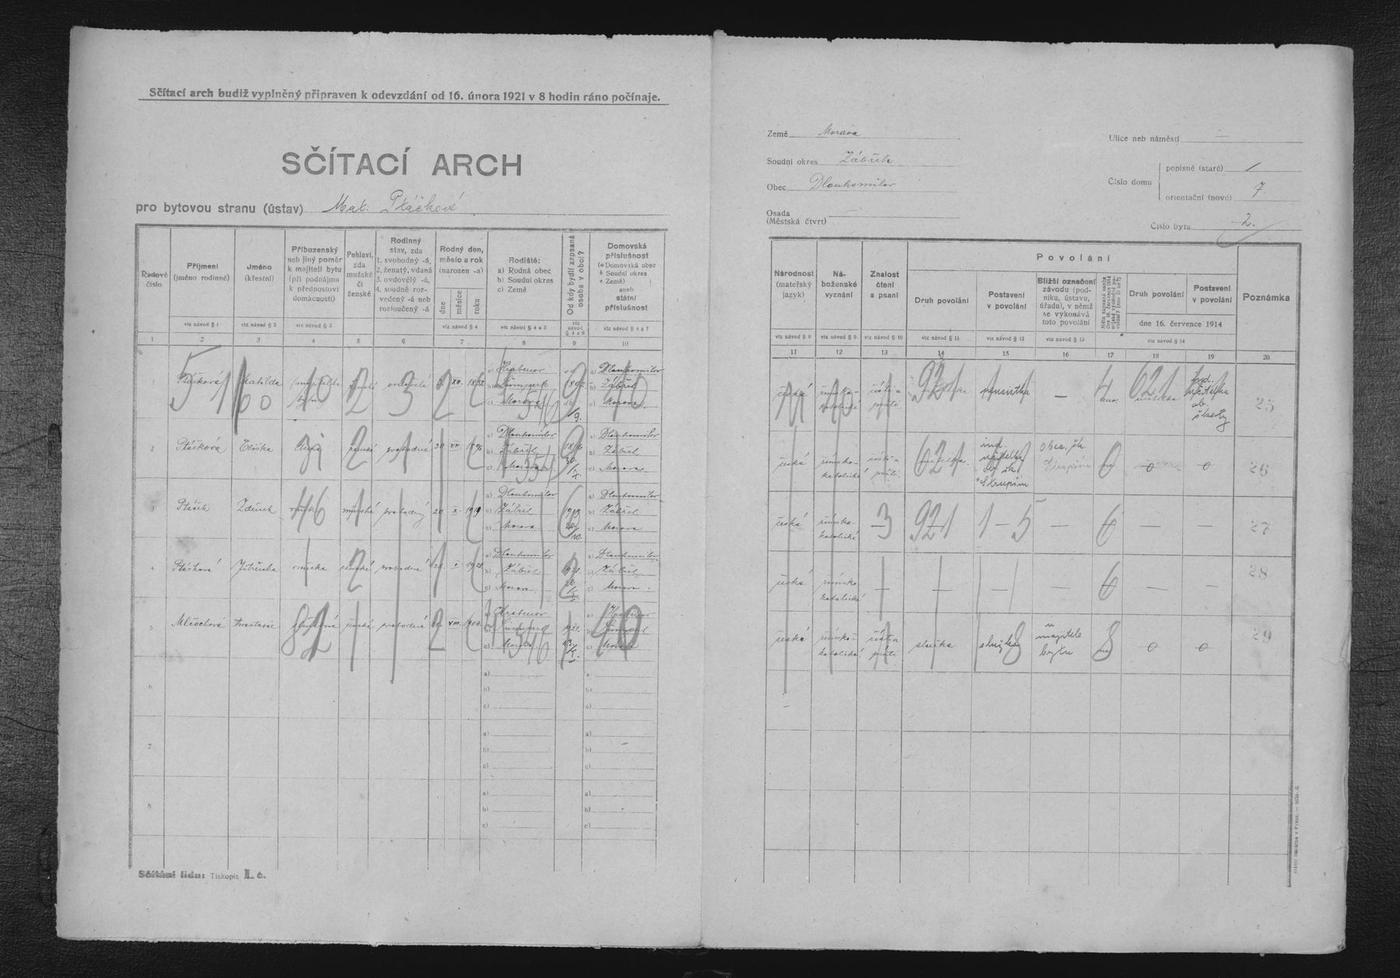
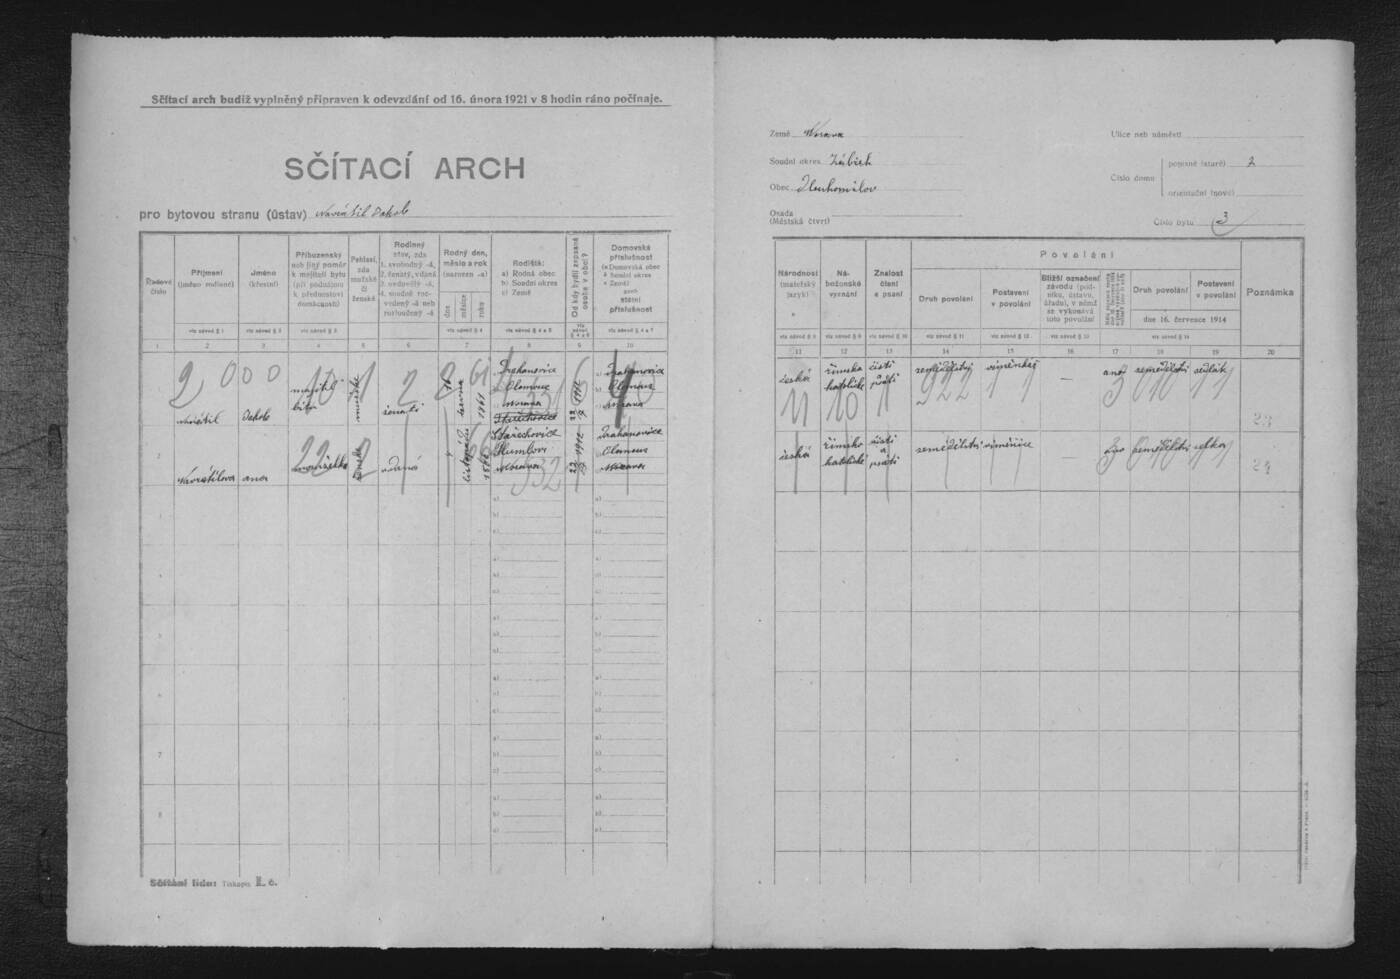
fix(cp7): overeni a oprava obyvatel bytu c. 3 rychty cp. 7 ze skenu 1921 (Jakub a Anna Navratilovi)

diff --git a/data/houses.js b/data/houses.js
@@ -936,7 +936,7 @@ const housesData = [
         "date": "15. února 1921",
         "isSample": false,
         "archiveSource": "Zemský archiv v Opavě, fond Okresní úřad Zábřeh, Sčítání lidu 1921, fascikl 3, arch čp. 7 (snímky 0036, 0038, 0040, 0042)",
-        "note": "Originální sčítací operát ČSR 1921 (ověřeno z primárních skenů e538 a 812b). Dům byl rozdělen na 3 byty (14 obyvatel): Byt č. 1 (rodina nového majitele Františka Hvížďa a čeleď, 7 osob – běžné pořadové č. 30–36), Byt č. 2 (výměnek – Mathilda Ptáčková roz. Všetečková, dcera industriální učitelka Eliška, vnoučata Zdeněk a Jitřenka, služebná Anastasie Mlčochová, 5 osob – běžné pořadové č. 25–29) a Byt č. 3 (výměnkář Jakub Navrátil s chotí z Drahanovic, 2 osoby).",
+        "note": "Originální sčítací operát ČSR 1921 (ověřeno z primárních skenů e538, 812b a 67da). Dům byl rozdělen na 3 byty (14 obyvatel): Byt č. 3 (výměnkář Jakub Navrátil s chotí Annou z Drahanovic, 2 osoby – běžné pořadové č. 23–24), Byt č. 2 (výměnek – Mathilda Ptáčková roz. Všetečková, dcera Eliška, vnoučata Zdeněk a Jitřenka, služka Anastasie Mlčochová, 5 osob – běžné pořadové č. 25–29) a Byt č. 1 (rodina nového majitele Františka Hvížďa a čeleď, 7 osob – běžné pořadové č. 30–36).",
         "scanFile": "assets/archives/cp7/su1000_c_pom_411_inv_c_1863_fascikl_3_null_dlouhomilov_serie_cp_1_118_1921_0036.jpg",
         "scanTitle": "Sčítací operát 1921 – Bývalá dědičná rychta čp. 7",
         "inhabitants": [
@@ -1063,21 +1063,21 @@ const housesData = [
           {
             "name": "Jakub Navrátil",
             "relation": "Majitel bytu č. 3 (výměnkář)",
-            "birthDate": "2. 8. 1861",
+            "birthDate": "16. 6. 1861",
             "birthPlace": "Drahanovice",
             "religion": "římskokatolické",
             "nationality": "československá",
-            "occupation": "Výměnkář / dříve samostatný rolník",
+            "occupation": "Výměnkář / dříve samostatný sedlák (v obci od 22. 7. 1912)",
             "literacy": "čte i píše"
           },
           {
             "name": "Anna Navrátilová",
             "relation": "Manželka v bytě č. 3",
-            "birthDate": "listopad 1860",
+            "birthDate": "4. 11. 1860",
             "birthPlace": "Stařechovice",
             "religion": "římskokatolické",
             "nationality": "československá",
-            "occupation": "Výměnkářka v domácnosti",
+            "occupation": "Výměnkářka / dříve selka (v obci od 22. 7. 1912)",
             "literacy": "čte i píše"
           }
         ],

diff --git a/data/census_registry.js b/data/census_registry.js
@@ -279,12 +279,12 @@ const censusRegistryData = [
     "categoryLabel": "Výměnkář / Výměnkářka",
     "categoryIcon": "👴",
     "categoryBadgeClass": "bg-stone-100 text-stone-900 border-stone-300",
-    "birthDate": "2. 8. 1861",
+    "birthDate": "16. 6. 1861",
     "relation": "Majitel bytu č. 3 (výměnkář)",
     "birthPlace": "Drahanovice",
     "religion": "římskokatolické",
     "language": "československá",
-    "occupation": "Výměnkář / dříve samostatný rolník",
+    "occupation": "Výměnkář / dříve samostatný sedlák (v obci od 22. 7. 1912)",
     "notes": "Majitel bytu č. 3 (výměnkář) | gramotnost: čte i píše",
     "scanFile": "assets/archives/cp7/su1000_c_pom_411_inv_c_1863_fascikl_3_null_dlouhomilov_serie_cp_1_118_1921_0036.jpg",
     "scanTitle": "Sčítací operát 1921 – Bývalá dědičná rychta čp. 7 (Jakub Navrátil)"
@@ -301,12 +301,12 @@ const censusRegistryData = [
     "categoryLabel": "Výměnkář / Výměnkářka",
     "categoryIcon": "👴",
     "categoryBadgeClass": "bg-stone-100 text-stone-900 border-stone-300",
-    "birthDate": "listopad 1860",
+    "birthDate": "4. 11. 1860",
     "relation": "Manželka v bytě č. 3",
     "birthPlace": "Stařechovice",
     "religion": "římskokatolické",
     "language": "československá",
-    "occupation": "Výměnkářka v domácnosti",
+    "occupation": "Výměnkářka / dříve selka (v obci od 22. 7. 1912)",
     "notes": "Manželka v bytě č. 3 | gramotnost: čte i píše",
     "scanFile": "assets/archives/cp7/su1000_c_pom_411_inv_c_1863_fascikl_3_null_dlouhomilov_serie_cp_1_118_1921_0036.jpg",
     "scanTitle": "Sčítací operát 1921 – Bývalá dědičná rychta čp. 7 (Anna Navrátilová)"
